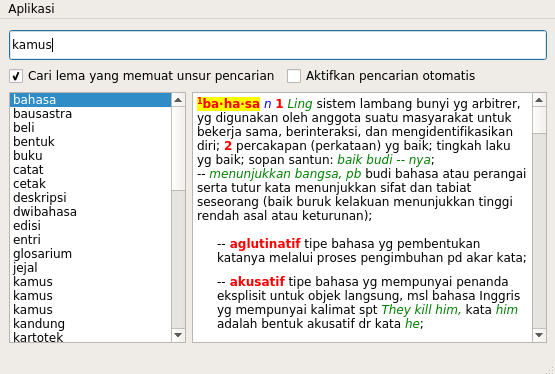
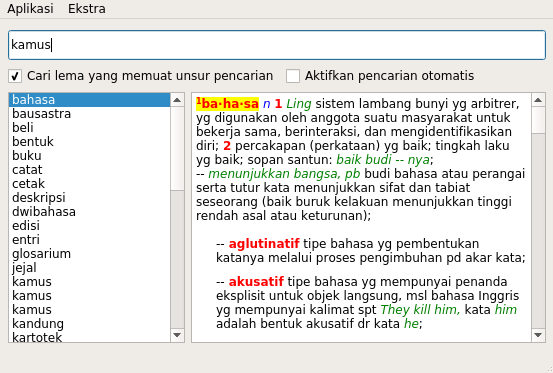
dokumentasi, sampai commit 0eec0d5
* benahi ejaan
* tambah tutorial (pada poin 2 dan 4)

Changed region(s): [[0.0, 0.0885, 1.0, 0.9437], [0.0, 0.0, 0.1844, 0.059], [0.9837, 0.0885, 1.0, 0.1475]]

diff --git a/doc/dokumentasi.md b/doc/dokumentasi.md
@@ -1,16 +1,16 @@
 # 1. Pengenalan KBBI-Qt
 ## 1.1 Apa itu KBBI-Qt?
-KBBI-Qt adalah aplikasi Kamus Besar Bahasa Indonesia yang dikembangkan dengan bahasa pemrograman C++ dan Framework Qt.
+KBBI-Qt adalah aplikasi Kamus Besar Bahasa Indonesia berbasis GUI (*Graphical User Interface* atau Antarmuka Berbasis Grafik) yang dikembangkan dengan bahasa pemrograman C++ dan Framework Qt.
 
-Dirilis dengan lisensi GNU GPL v3.0, maka KBBI Qt adalah [*free software*][3], sehingga aplikasi yang dikembangkan oleh komunitas Belajar GNU/Linux Indonesia (BGLI) ini bebas dijalankan untuk tujuan apa pun, digunakan, didistribusikan (baik berbayar atau gratis), disalin, dimodifikasi, dan dikembangkan.
+Dirilis dengan lisensi GNU GPL v3.0, maka KBBI Qt adalah [*free software*][3], sehingga aplikasi yang dikembangkan oleh komunitas Belajar GNU/Linux Indonesia (BGLI) ini bebas dijalankan untuk tujuan apapun, digunakan, didistribusikan (baik berbayar atau gratis), disalin, dimodifikasi, dan dikembangkan.
 
 ## 1.2 Keuntungan menggunakan KBBI-Qt
 Badan Pengembangan dan Pembinaan Bahasa (Badan Bahasa) serta Kementerian Pendidikan dan Kebudayaan (Kemendikbud) sebenarnya telah merilis aplikasi KBBI berbasis web; [kbbi.web.id][0] (KBBI III), [kbbi4.portalbahasa.com][1] (KBBI IV), dan [kbbi.kemdikbud.go.id][2] (KBBI V). Namun, ketiganya memiliki kekurangan, yakni pengguna harus dalam keadaan daring untuk mengaksesnya.
 
-KBBI-Qt ingin memastikan bahwa pengguna dapat mengakses KBBI dalam keadaan luring melalui komputer atau laptop.
+KBBI-Qt ingin memastikan bahwa pengguna dapat mengakses KBBI dalam keadaan luring melalui komputer atau laptop. Sebagai tambahan, KBBI-Qt juga membawa PUEBI (Pedoman Umum Ejaan Bahasa Indonesia) yang bisa diakses melalui menu Ekstra pada *menu bar* (lihat poin 4.4).
 
 # 2. Pemasangan KBBI-Qt
-Beberapa kontributor telah memaketkan aplikasi KBBI-Qt untuk CentOS/RHEL7 dan Fedora. Berikut cara instal melalui distro tersebut, ditambah cara instal dari *source code* (*compile* manual).
+Beberapa kontributor telah memaketkan aplikasi KBBI-Qt untuk CentOS/RHEL7, Fedora, dan Debian beserta turunannya. Berikut cara instal melalui distro tersebut, ditambah cara instal dari *source code* (*compile* manual).
 
 ## 2.1 Di CentOS/RHEL7
     $ sudo wget https://copr.fedorainfracloud.org/coprs/alunux/kbbi-qt-git/repo/epel-7/alunux-kbbi-qt-git-epel-7.repo -O /etc/yum.repos.d/kbbi-qt.repo
@@ -20,14 +20,25 @@ Beberapa kontributor telah memaketkan aplikasi KBBI-Qt untuk CentOS/RHEL7 dan Fe
     $ sudo dnf copr enable alunux/kbbi-qt-git
     $ sudo dnf install KBBI-Qt
 
-## 2.3 Instal dari source code
+## 2.3 Debian dan Distro Turunan Debian
+    $ wget https://github.com/bgli/kbbi-qt/releases/download/v1.0-alpha/kbbi-qt_1.0.0-alpha-1_amd64.1.deb
+    $ sudo dpkg -i kbbi-qt_1.0.0-alpha-1_amd64.deb
+
+## 2.4 Instal dari source code
+Untuk melakukan kompilasi, pastikan sistem operasi Anda sudah memiliki **GCC dengan dukungan C++**, **Qt5**, dan **qmake (qtchooser)**.
+
     $ git clone https://github.com/bgli/kbbi-qt.git
-    $ cd kbbi-qt/src
-    $ qmake -project
+    $ cd kbbi-qt
+    $ qmake KBBI-Qt.pro
     $ make
+    $ sudo make clean install
+
+Untuk menghapus aplikasi:
+
+    $ sudo make uninstall
 
 # 3. Pengenalan antarmuka
-![pengenalan antarmuka](gbr/pengenalan-antarmuka.jpg)
+![pengenalan antarmuka](gbr/pengenalan-antarmuka.png)
 
 # 4. Penggunaan KBBI-Qt
 
@@ -54,6 +65,28 @@ Misal, kata "kamus" termuat dalam arti kata "bahasa", "bausastra", "beli", dll.
 ## 4.3 Perbesar fonta pada kolom hasil pencarian
 
 Klik kolom hasil pencarian, tahan tombol *Ctrl* pada *keyboard*, lalu *scroll* menggunakan *mouse*.
+
+## 4.3 Mengakses PUEBI
+
+Klik "Ekstra" pada *menu bar*, lalu pilih PUEBI. PUEBI akan terbuka di peramban favorit Anda secara otomatis.
+
+## 4.4 Keterangan aplikasi, nama-nama pengembang, dan lisensi
+
+Untuk melihat penjelasan singkat seputar KBBI-Qt, nama-nama pengembang, dan lisensi, klik "Aplikasi" pada *menu bar*, lalu pilih "Tentang".
+
+**Tampilan dialog Tentang Aplikasi**:
+
+![tentang aplikasi](gbr/kbbi-qt-tentang.png)
+
+**Tampilan dialog Pengembang Aplikasi**:
+
+Anda bisa membuka akun GitHub pengembang melalui peramban dengan cara meng-klik dua kali pada nama pengembang.
+
+![pengembang aplikasi](gbr/kbbi-qt-pengembang.png)
+
+**Tampilan dialog Lisensi Aplikasi**:
+
+![lisensi aplikasi](gbr/kbbi-qt-lisensi.png)
 
 [0]: http://kbbi.web.id
 [1]: http://kbbi4.portalbahasa.com
